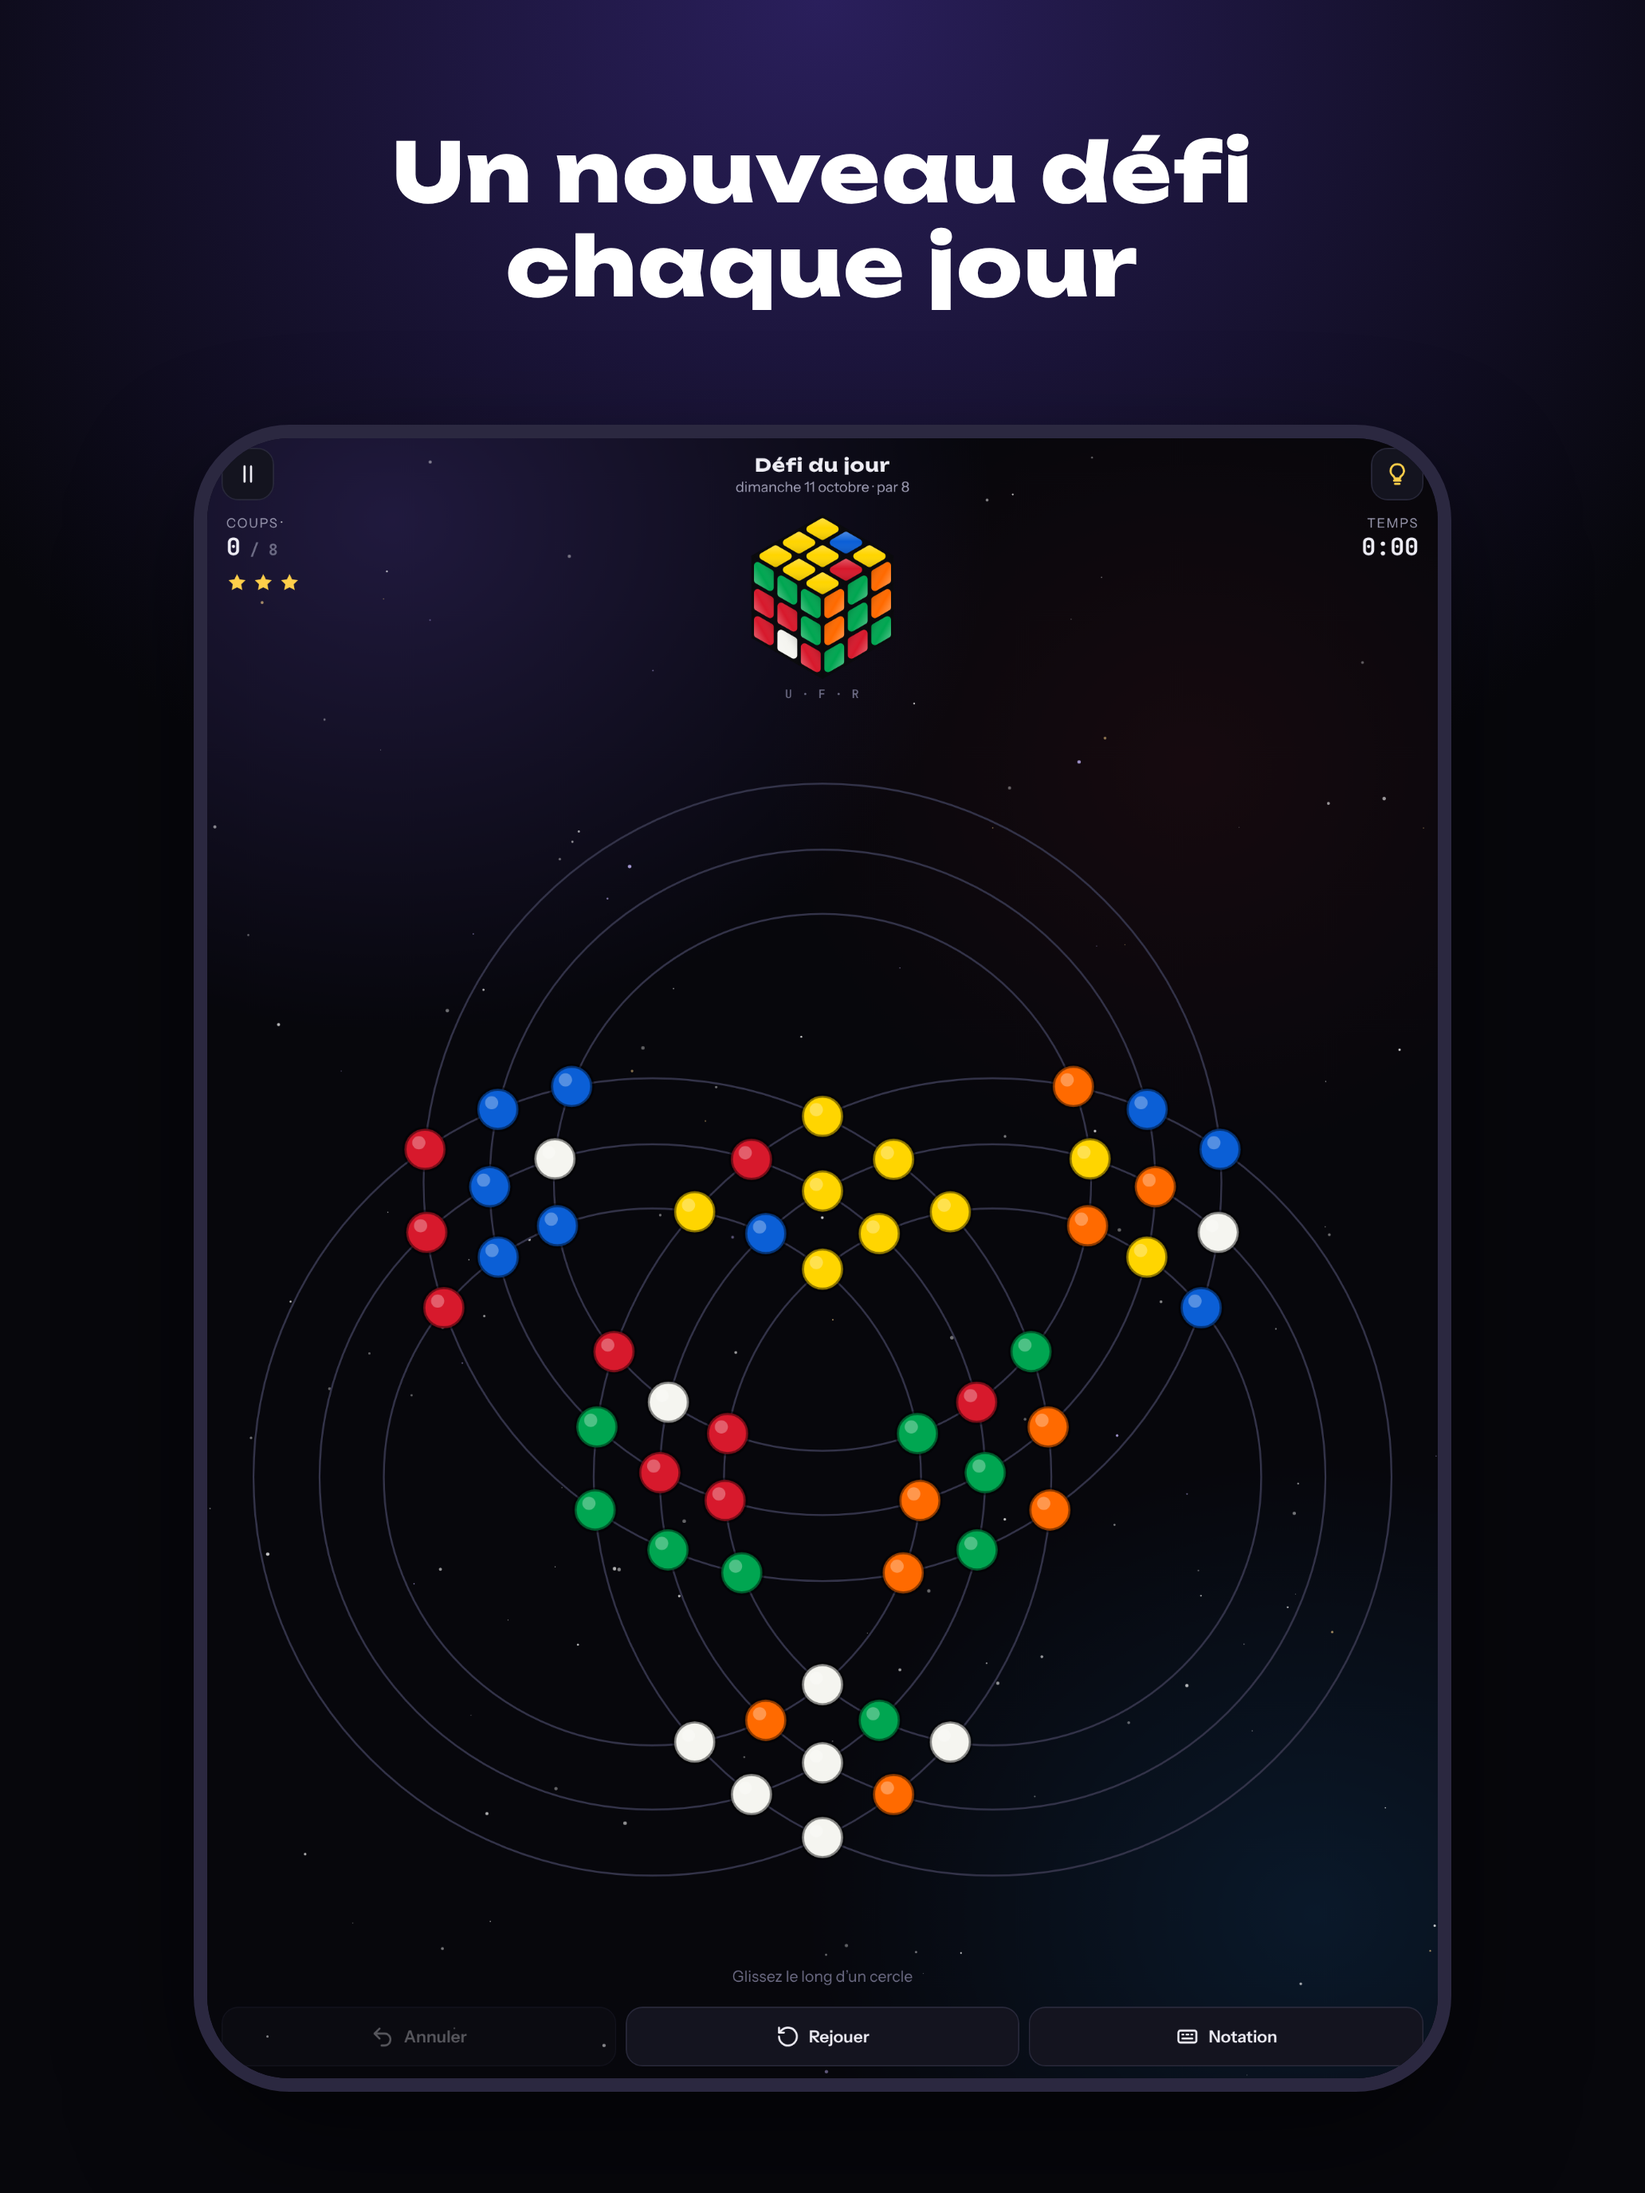
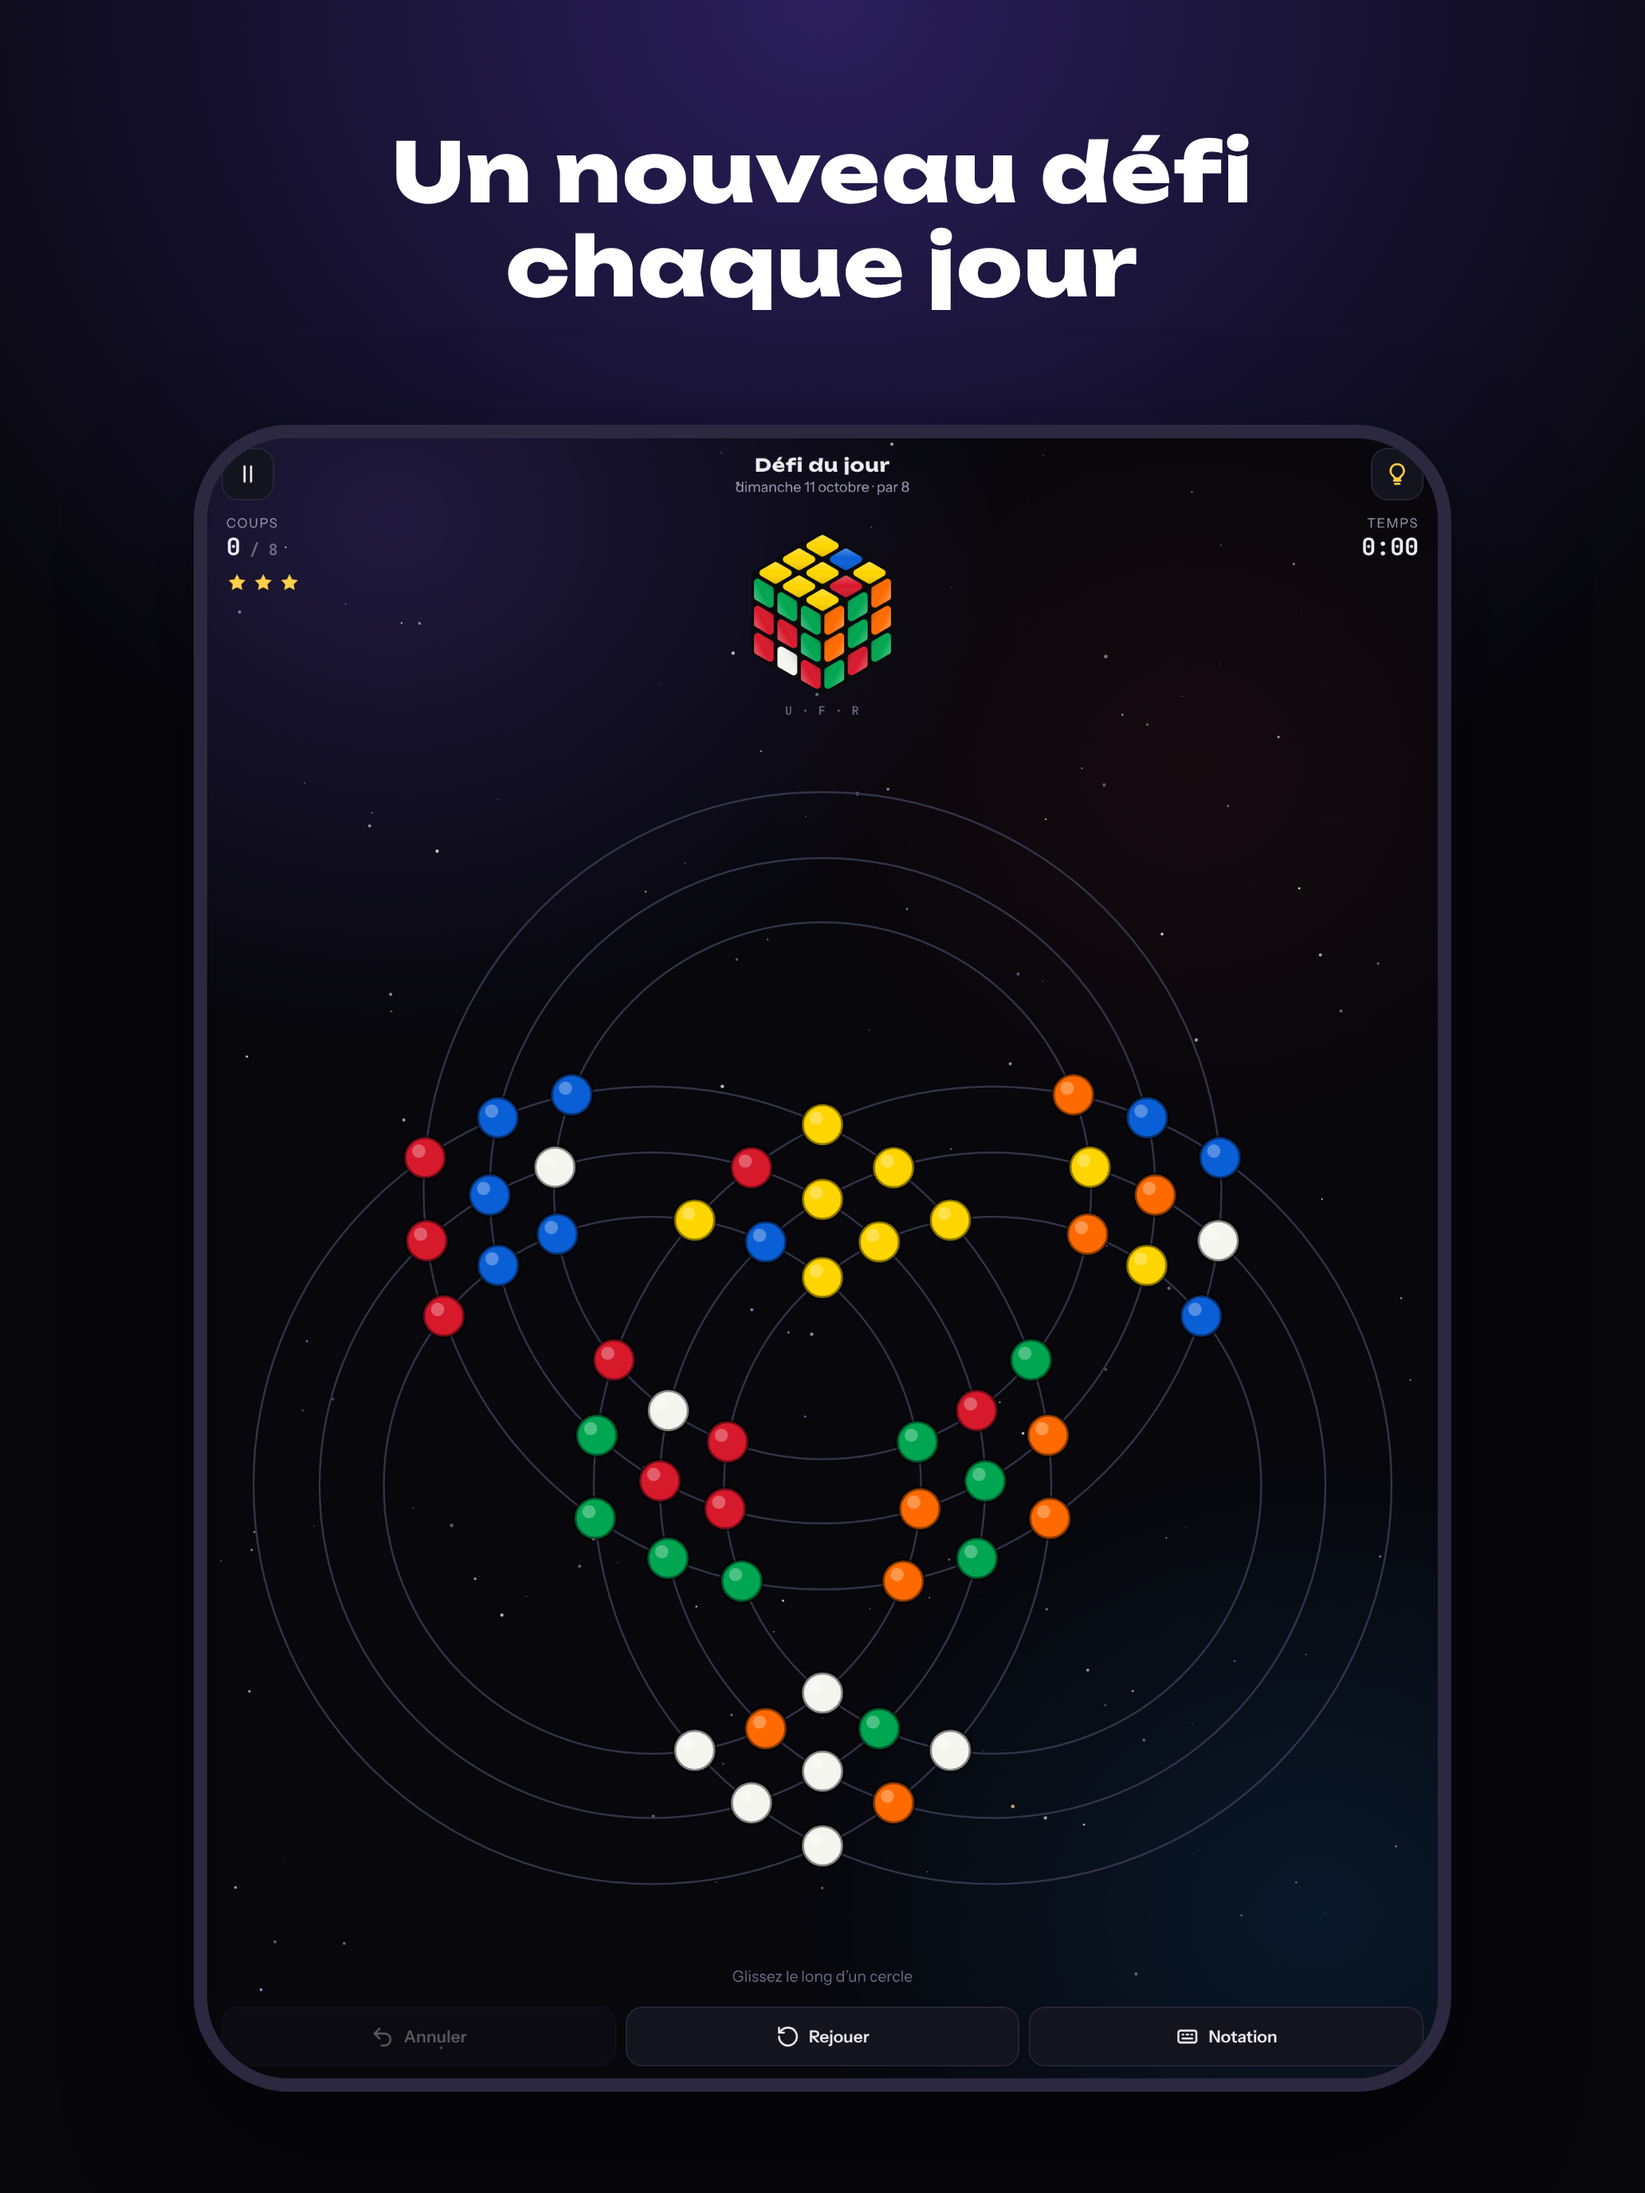
Cube en perspective : plus d'éclats pendant les tours, et un peu plus bas
L'ordre de dessin triait tous les petits cubes ensemble par leur centre : dès qu'une tranche
tournait, des morceaux de facettes cachées perçaient. Le cube est maintenant peint tranche par
tranche le long de l'axe du tour (chaque tranche est un bloc convexe), et une facette vue
presque par la tranche s'efface en douceur au lieu de laisser un éclat de couleur.
Rendu vérifié sur les 18 tours à plusieurs instants, et en glissant sur le plateau.

Claude-Session: https://claude.ai/code/session_0149xvqQAFsWoXJkF64USQEK

diff --git a/orbicube/www/index.html b/orbicube/www/index.html
@@ -161,7 +161,7 @@ a.bouton{text-decoration:none;color:inherit}
 #plateau{display:block;touch-action:none;max-width:100%}
 /* le cube en perspective trône au centre, entre les coups et le temps, comme dans la visualisation de
    référence : sa taille (--cube) est la hauteur que le plateau laisse, calculée par redimJeu() */
-.jcube{display:grid;justify-items:center;gap:0;min-width:0}
+.jcube{display:grid;justify-items:center;gap:0;min-width:0;padding-top:14px}
 #mini{width:var(--cube,96px);height:var(--cube,96px);display:block;cursor:pointer;touch-action:manipulation}
 .miniv{font-size:10px;color:var(--sourd);text-align:center;font-family:var(--f-chiffre);pointer-events:none;letter-spacing:.1em}
 .jinfo .stat{align-self:start;padding-top:6px}.jinfo .jetoiles{margin-top:8px}.jinfo .jetoiles svg{width:18px;height:18px}
@@ -633,9 +633,15 @@ function dessinerCube(cc,w,col,anim,vue,pivot){cc.clearRect(0,0,w,w);var k=w/6.6
   function rotV(v){var r=V(v);return pivot?rotAng(r,1,pivot):r;}
   function proj(v){v=rotV(v);return[ox+(v[0]-v[2])*C30*k,oy+((v[0]+v[2])*.5-v[1])*k];}
   var mv=anim?anim.mv:null,th=anim?mv.q*anim.t*Math.PI/2:0,cubies=[];
-  for(var x=-1;x<=1;x++)for(var y=-1;y<=1;y++)for(var z=-1;z<=1;z++){if(!x&&!y&&!z)continue;
-    (function(p){var tourne=!!(mv&&p[mv.a]===mv.L),tr=function(v){return tourne?rotAng(v,mv.a,th):v;},c=rotV(tr(p));cubies.push({p:p,tr:tr,d:c[0]+c[1]+c[2]});})([x,y,z]);}
-  cubies.sort(function(u,v){return u.d-v.d;});
+  // Ordre de dessin (algorithme du peintre) : le cube est coupé en trois tranches le long de l'axe du tour.
+  // Chaque tranche est un bloc convexe : on peint la tranche la plus lointaine d'abord, puis, dans une
+  // tranche, les cubes du plus lointain au plus proche. Trier tous les cubes ensemble par leur centre se
+  // trompait dès qu'une tranche tournait : des morceaux de facettes cachées perçaient à travers.
+  var ax=mv?mv.a:0,u=[0,0,0];u[ax]=1;var ua=rotV(u),sensAx=ua[0]+ua[1]+ua[2];
+  for(var x=-1;x<=1;x++)for(var y=-1;y<=1;y++)for(var z=-1;z<=1;z++)
+    (function(p){var tourne=!!(mv&&p[mv.a]===mv.L),tr=function(v){return tourne?rotAng(v,mv.a,th):v;},c=rotV(tr(p));
+      cubies.push({p:p,tr:tr,d:c[0]+c[1]+c[2],t:p[ax]*sensAx});})([x,y,z]);
+  cubies.sort(function(u,v){return u.t-v.t||u.d-v.d;});
   var dirs=[[1,0,0],[-1,0,0],[0,1,0],[0,-1,0],[0,0,1],[0,0,-1]];
   cubies.forEach(function(cb){dirs.forEach(function(d){var nv=rotV(cb.tr(d));if(nv[0]+nv[1]+nv[2]<=0.01)return;
     var a=d[0]?0:d[1]?1:2,u=(a+1)%3,v=(a+2)%3;
@@ -643,13 +649,16 @@ function dessinerCube(cc,w,col,anim,vue,pivot){cc.clearRect(0,0,w,w);var k=w/6.6
     var pts=[coin(-1,-1,.5),coin(1,-1,.5),coin(1,1,.5),coin(-1,1,.5)];
     cc.beginPath();pts.forEach(function(q,i){i?cc.lineTo(q[0],q[1]):cc.moveTo(q[0],q[1]);});cc.closePath();cc.fillStyle="#0b0b0e";cc.fill();cc.strokeStyle="#0b0b0e";cc.lineWidth=1.2;cc.lineJoin="round";cc.stroke();
     var idx=CLE[cb.p+"|"+d];if(idx===undefined)return;
+    // une face vue presque par la tranche ne montre qu'un éclat de couleur, qui passait pour un défaut
+    // de texture pendant les tours : la facette s'efface en douceur sous 20° d'inclinaison
+    var face=(nv[0]+nv[1]+nv[2])/Math.sqrt(3),al=Math.min(1,(face-.12)/.22);if(al<=0)return;cc.globalAlpha=al;
     // facette « cube de compétition » : carré arrondi sur corps noir, avec un léger reflet
     var sp=[coin(-1,-1,.42),coin(1,-1,.42),coin(1,1,.42),coin(-1,1,.42)],ra=k*.13;
     cc.beginPath();for(var i=0;i<4;i++){var A=sp[(i+3)%4],B=sp[i],C=sp[(i+1)%4];
       if(!i)cc.moveTo((A[0]+B[0])/2,(A[1]+B[1])/2);cc.arcTo(B[0],B[1],(B[0]+C[0])/2,(B[1]+C[1])/2,ra);}
     cc.closePath();cc.fillStyle=COUL[col[idx]];cc.fill();
     var g=cc.createLinearGradient(sp[0][0],sp[0][1],sp[2][0],sp[2][1]);g.addColorStop(0,"rgba(255,255,255,.28)");g.addColorStop(.45,"rgba(255,255,255,0)");g.addColorStop(1,"rgba(0,0,0,.14)");
-    cc.fillStyle=g;cc.fill();});});}
+    cc.fillStyle=g;cc.fill();cc.globalAlpha=1;});});}
 
 /* ========== 5. LES NIVEAUX ========== */
 var MONDES=[

diff --git a/orbicube/www/sw.js b/orbicube/www/sw.js
@@ -1,6 +1,6 @@
 // Version web (PWA) : tout le jeu est mis en cache pour se jouer hors ligne.
 // Incrémenter V à chaque publication, sinon les joueurs gardent l'ancienne version.
-var V = "orbicube-v12";
+var V = "orbicube-v13";
 var FICHIERS = ["./", "index.html", "config.js", "natif.js", "langues.js", "manifest.webmanifest", "confidentialite.html",
   "icones/favicon.png", "icones/apple-touch-icon.png", "icones/icon-192.png", "icones/icon-512.png", "icones/icon-maskable-512.png",
   "polices/polices.css", "polices/Unbounded-normal-700.woff2", "polices/Unbounded-normal-800.woff2",
